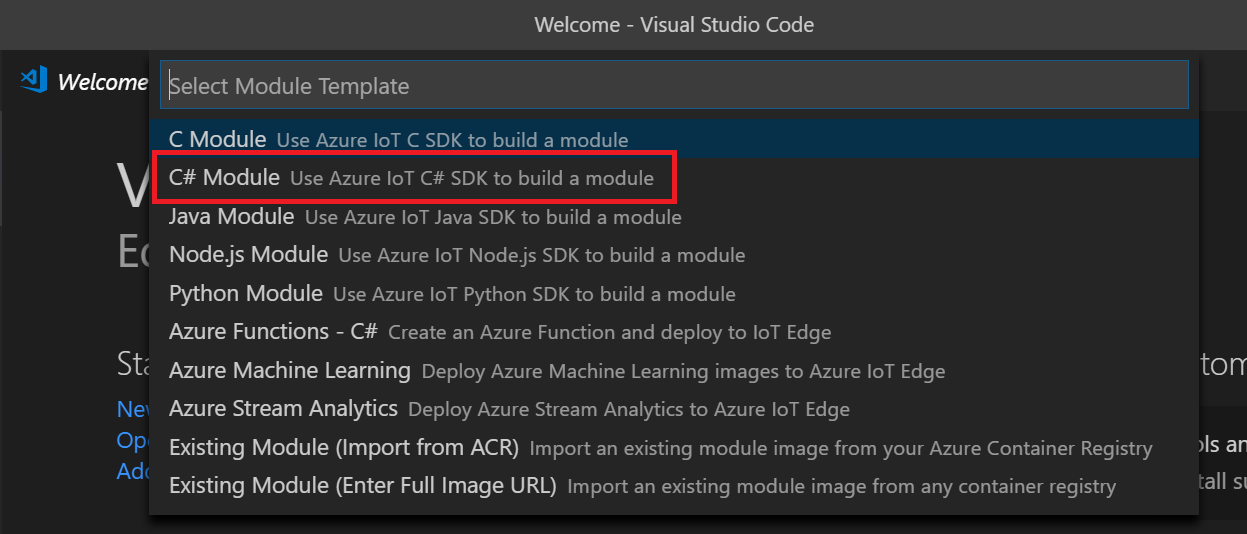
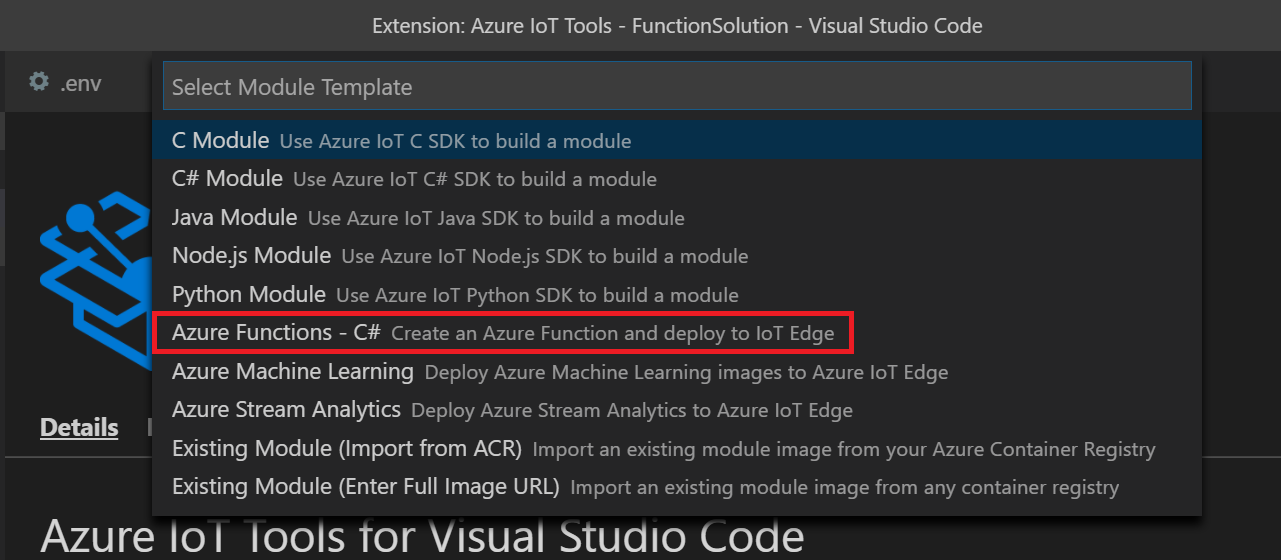
updated filter function

Changed region(s): [[0.0, 0.0899, 1.0, 0.9888], [0.2743, 0.03, 0.7618, 0.0599], [0.9447, 0.6592, 1.0, 0.7191]]

diff --git a/functionmodule/readme.md b/functionmodule/readme.md
@@ -202,9 +202,13 @@ The Azure IoT Edge extension for Visual Studio Code that you installed provides 
 
 11. Save the changes to the of the **FilterFunction.cs** file.
 
-12. Open the VS Code integrated terminal by selecting View > Terminal.
+12. If your project shows error do a **dotnet restore**. Open a terminal and go to your project modules folder and type in **dotnet restore**. Once done close the FilterFunction.cs file and reopen. 
 
-13. Sign in to your container registry by entering the following command in the integrated terminal. 
+    ![Container Registry Credentials](images/15_dotnet_restore.png)
+
+13. Open the VS Code integrated terminal by selecting View > Terminal.
+
+14. Sign in to your container registry by entering the following command in the integrated terminal. 
 
     Use the username and login server that you copied from your Azure container registry earlier.
 
@@ -221,11 +225,11 @@ The Azure IoT Edge extension for Visual Studio Code that you installed provides 
 
     Hit **ENTER** to submit the password.
 
-14. In the VS Code explorer, open the **deployment.template.json** file in your IoT Edge solution workspace.
+15. In the VS Code explorer, open the **deployment.template.json** file in your IoT Edge solution workspace.
 
     This file tells the IoT Edge runtime which modules to deploy to a device. Notice that your Function module, **FilterFunction** is listed along with the **tempsensor** module we deployed in an earlier task, that provides test data.
 
-    If you scroll down to line 86, you will see a definition for the routes on the IoTEdge module:
+    If you scroll down to line 87, you will see a definition for the routes on the IoTEdge module:
 
     ```json 
     {
@@ -240,21 +244,25 @@ The Azure IoT Edge extension for Visual Studio Code that you installed provides 
     }
     ```
 
+    ![Routes](images/16_filterfunctionroutes.png)
+
     This replaces the existing route which takes the output of the **tempsensor** module and sends it to **\$upstream** (which is the IoT Hub in the cloud). The new routes take the output of **tempsensor** and routes it to the **FilterFunction** and then takes the output from **FilterFunction** and routes it to **$upstream** .
 
-15. Open the **.env** file in your IoT Edge solution workspace. 
+16. Open the **.env** file in your IoT Edge solution workspace. 
 
     This git-ignored file stores your container registry credentials so that you don't have to put them in the deployment manifest template. Provide the username and password for your container registry.
 
-16. In the **.env** file, provide the username and password for the Azure Container Registry.
+17. In the **.env** file, provide the username and password for the Azure Container Registry.
 
-17. Save the changes to the **.env** file.
+18. Save the changes to the **.env** file.
 
-18. In the VS Code explorer, right-click the **deployment.template.json** file and select **Build and Push IoT Edge solution**.
+19. In the VS Code explorer, right-click the **deployment.template.json** file and select **Build and Push IoT Edge solution**.
 
     When you tell Visual Studio Code to build your solution, it first takes the information in the deployment template and generates a deployment.json file in a new folder named config. Then it runs two commands in the integrated terminal: docker build and docker push. These two commands build your code, containerize the functions, and then push the code to the container registry that you specified when you initialized the solution.
 
     You will see a lot of output generated during the process.
+
+    ![Build and Push](images/17_buildandpush.png)
 
 ### View your Container Image
 
